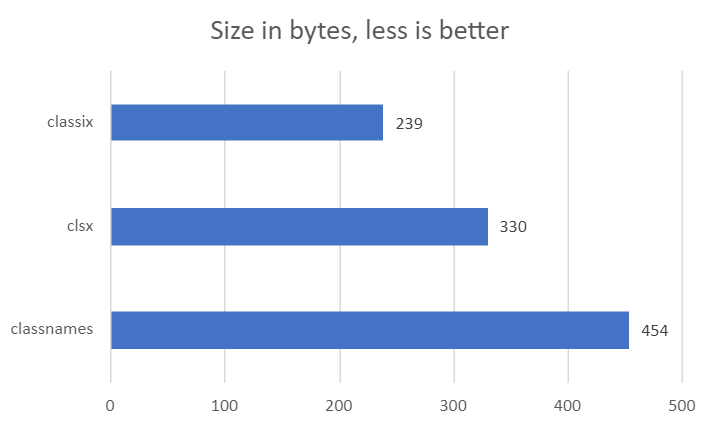
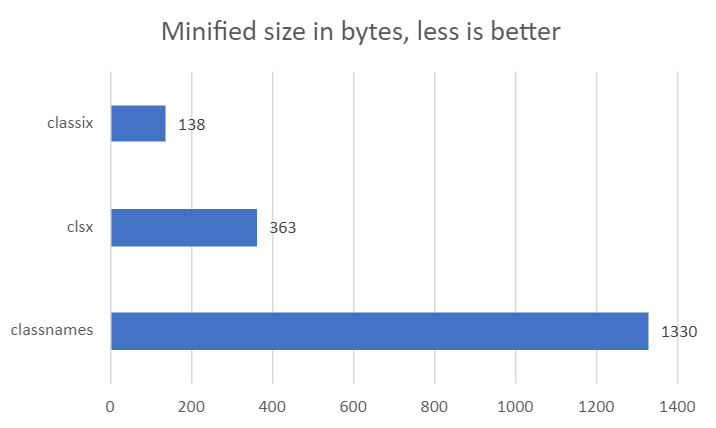
docs: Compare minified sizes (#21)

diff --git a/README.md b/README.md
@@ -1,8 +1,8 @@
 # classix
 
-![Build](https://img.shields.io/github/workflow/status/alexnault/classix/ci-and-publish?style=flat-square)
 ![NPM version](https://img.shields.io/npm/v/classix?style=flat-square)
-![Size](https://img.shields.io/bundlephobia/minzip/classix?&style=flat-square)
+![Build](https://img.shields.io/github/workflow/status/alexnault/classix/ci-and-publish?style=flat-square)
+![Test coverage](https://img.shields.io/codecov/c/github/alexnault/classix?style=flat-square)
 
 The [fastest](#comparison) and [tiniest](#comparison) utility for conditionally joining classNames.
 
@@ -54,7 +54,7 @@ cx(
 
 ![Size comparison chart](media/size.png)
 
-Sources: [classix](https://bundlephobia.com/package/classix), [clsx](https://bundlephobia.com/package/clsx), [classnames](https://bundlephobia.com/package/classnames)
+Sources: [classix](https://bundlejs.com/?q=classix), [clsx](https://bundlejs.com/?q=clsx), [classnames](https://bundlejs.com/?q=classnames)
 
 ![Performance comparison chart](media/perf.png)
 
